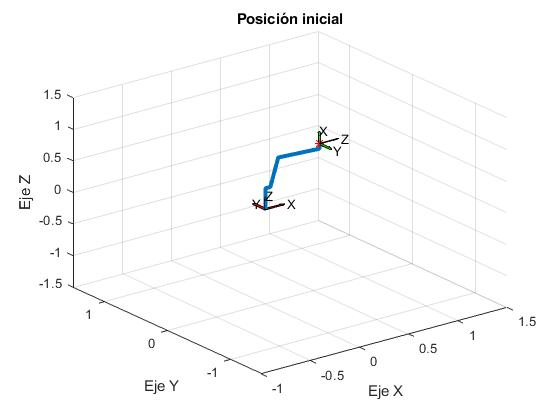
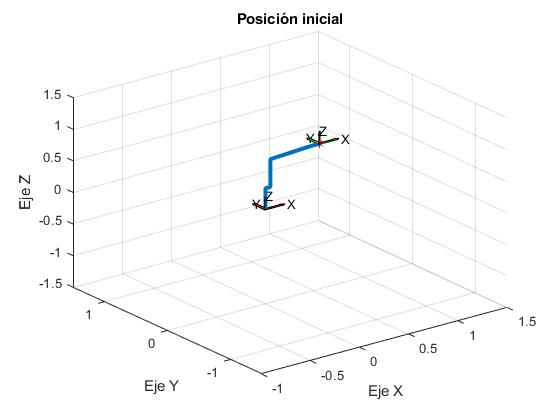
Se actualizaron imagenes de punto inicial,medio y final

Changed region(s): [[0.4554, 0.3095, 0.6375, 0.4333]]

diff --git a/simulacion2.m b/simulacion2.m
@@ -10,7 +10,7 @@ for i=0:1:2
         %Posición inicial = robot(0,0,0,0,0,0)
         %Donde (0.55,0,0.805,0,-pi/2,-pi) 
         xe=0.55;ye=0;ze=0.805;
-        alfa=0;betha=-pi/2;gamma=-pi;
+        alfa=0;betha=0;gamma=0;
         q=fsolve(@c_inv,q0)
 
         figure(i+1)
@@ -22,7 +22,7 @@ for i=0:1:2
     elseif (i==1)
         %Posición intermedia = (0.824199,0.02975,0.340979,-pi,0,0)
         xe=0.824199;ye=0.02975;ze=0.340979;
-        alfa=-pi;betha=0;gamma=0;
+        alfa=0;betha=0;gamma=0;
         q=fsolve(@c_inv,q0)
         
         figure(i+1)
@@ -34,7 +34,7 @@ for i=0:1:2
     else 
         %Posicón final = (0.158752,0.790429,0.492442,-pi,deg2rad(-18.779),deg2rad(78.415))
         xe=0.158752;ye=0.790429;ze=0.492442;
-        alfa=-pi;betha=deg2rad(-18.779);gamma=deg2rad(78.415);
+        alfa=0;betha=0;gamma=0;
         q=fsolve(@c_inv,q0)
         
         figure(i+1) 
